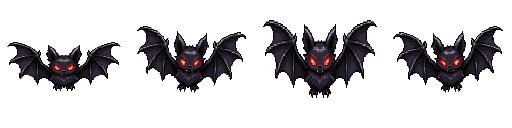
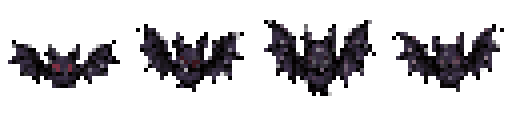
Make Pixel Survivors visuals chunkier

Changed region(s): [[0.0, 0.1875, 0.5, 0.7188], [0.5, 0.1562, 0.75, 0.75], [0.75, 0.1875, 1.0, 0.7188]]

diff --git a/PixelSurvivors/styles.css b/PixelSurvivors/styles.css
@@ -30,11 +30,24 @@ body.prep-open .stick {
   background: #080b13;
 }
 
+.shell::after {
+  content: "";
+  position: fixed;
+  inset: 0;
+  z-index: 4;
+  pointer-events: none;
+  background:
+    repeating-linear-gradient(0deg, rgba(255, 255, 255, .045) 0 1px, transparent 1px 4px),
+    repeating-linear-gradient(90deg, rgba(0, 0, 0, .12) 0 1px, transparent 1px 6px);
+  mix-blend-mode: soft-light;
+}
+
 canvas {
   display: block;
   width: 100%;
   height: 100%;
   image-rendering: pixelated;
+  image-rendering: crisp-edges;
 }
 
 .hud {
@@ -44,7 +57,7 @@ canvas {
   right: 14px;
   display: grid;
   gap: 7px;
-  z-index: 2;
+  z-index: 5;
   pointer-events: none;
   text-shadow: 0 2px 0 #000;
 }
@@ -82,7 +95,7 @@ canvas {
   border: 2px solid rgba(213, 237, 255, .28);
   border-radius: 50%;
   background: rgba(235, 247, 255, .08);
-  z-index: 3;
+  z-index: 5;
   opacity: .18;
   pointer-events: none;
   transition: opacity .12s ease;
@@ -107,7 +120,7 @@ canvas {
 .upgrade {
   position: fixed;
   inset: 0;
-  z-index: 5;
+  z-index: 7;
   display: grid;
   align-content: center;
   gap: 12px;
@@ -156,7 +169,7 @@ canvas {
 .prep {
   position: fixed;
   inset: 0;
-  z-index: 6;
+  z-index: 8;
   display: grid;
   grid-template-rows: auto auto auto auto auto;
   gap: 10px;

diff --git a/PixelSurvivors/app.js b/PixelSurvivors/app.js
@@ -120,7 +120,7 @@
   }
 
   function resize() {
-    state.dpr = Math.min(window.devicePixelRatio || 1, 2);
+    state.dpr = 1;
     state.w = Math.floor(window.innerWidth);
     state.h = Math.floor(window.innerHeight);
     canvas.width = Math.floor(state.w * state.dpr);
@@ -353,14 +353,18 @@
     ctx.fillStyle = "#080b13";
     ctx.fillRect(0, 0, state.w, state.h);
 
-    const grid = 48;
+    const grid = 32;
     const ox = ((-state.player.x % grid) + grid) % grid;
     const oy = ((-state.player.y % grid) + grid) % grid;
     for (let x = ox - grid; x < state.w + grid; x += grid) {
       for (let y = oy - grid; y < state.h + grid; y += grid) {
         const shade = ((Math.floor((x - ox + state.player.x) / grid) + Math.floor((y - oy + state.player.y) / grid)) & 1) ? "#101d22" : "#0c161b";
         ctx.fillStyle = shade;
-        ctx.fillRect(Math.floor(x), Math.floor(y), grid - 2, grid - 2);
+        ctx.fillRect(Math.floor(x), Math.floor(y), grid - 1, grid - 1);
+        if ((((x + y) / grid) & 3) === 0) {
+          ctx.fillStyle = "rgba(255, 255, 255, .025)";
+          ctx.fillRect(Math.floor(x + 4), Math.floor(y + 4), 4, 4);
+        }
       }
     }
 
@@ -370,10 +374,10 @@
       ctx.fillStyle = "#2ce8ff";
       ctx.strokeStyle = "#f7ffff";
       ctx.lineWidth = 1;
-      ctx.beginPath();
-      ctx.rect(p.x - r, p.y - r, r * 2, r * 2);
-      ctx.fill();
-      ctx.stroke();
+      const px = Math.round(p.x / 2) * 2;
+      const py = Math.round(p.y / 2) * 2;
+      ctx.fillRect(px - r, py - r, r * 2, r * 2);
+      ctx.strokeRect(px - r, py - r, r * 2, r * 2);
     }
 
     for (const bolt of state.bolts) {
@@ -382,7 +386,7 @@
       ctx.translate(p.x, p.y);
       ctx.rotate(bolt.angle);
       ctx.fillStyle = "#ffe75c";
-      ctx.fillRect(-9, -3, 18, 6);
+      ctx.fillRect(-10, -4, 20, 8);
       ctx.restore();
     }
 

diff --git a/PixelSurvivors/index.html b/PixelSurvivors/index.html
@@ -5,7 +5,7 @@
   <meta name="viewport" content="width=device-width, initial-scale=1, viewport-fit=cover, user-scalable=no">
   <meta name="theme-color" content="#080b13">
   <title>Pixel Survivors</title>
-  <link rel="stylesheet" href="./styles.css?v=20260613-anydrag">
+  <link rel="stylesheet" href="./styles.css?v=20260613-pixelcrunch">
 </head>
 <body>
   <main class="shell">
@@ -47,6 +47,6 @@
     </section>
     <div id="stick" class="stick" aria-hidden="true"><span></span></div>
   </main>
-  <script src="./app.js?v=20260613-anydrag"></script>
+  <script src="./app.js?v=20260613-pixelcrunch"></script>
 </body>
 </html>